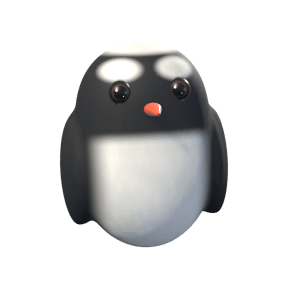
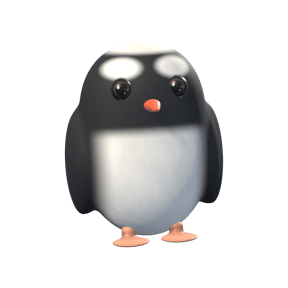
Figur & Hintergrund als eigene Seite; Abstaende; Wort ueber dem Kreis; Vogelfuesse
- Fragebogen: Bedeutung erscheint ueber dem getippten Kreis.
- Abstaende Titel -> Kasten gemessen (tools/abstaende.mjs) und behoben,
  darunter 'Freigeschaltet' und 'Ergebnis wiederherstellen'.
- Profil: Zeile 'Figur & Hintergrund' mit Vorschau, Unterseite view-look
  mit grosser Vorschau, Figuren und Hintergruenden (Entscheidung des
  Inhabers).
- Eule, Pinguin, Papagei, Rotkehlchen mit Beinen und Fuessen.

pruef-alles: 9/9 (Vogelbilder waehrend des Laufs neu uebernommen).

Changed region(s): [[0.1875, 0.1875, 0.8125, 0.875], [0.25, 0.1562, 0.5938, 0.4062], [0.5, 0.3438, 0.5625, 0.4062]]

diff --git a/tools/figuren_rendern/Tiere.swift b/tools/figuren_rendern/Tiere.swift
@@ -858,6 +858,7 @@ func eule() -> (SCNNode, Float, V) {
     nase(w, [Form(art: .rundkegel(V(0, -0.20, 0.10), 0.09, 0.02), mitte: V(0, 0.28, 0.82))], farbe: hex("#3B3330"), lack: 0.3, rauheit: 0.45)
     // Waldkauz: dunkle, fast schwarze Augen — gelbe haben Uhu und Steinkauz.
     augenEinsetzen(w, kopf, x: 0.30, y: 0.42, r: 0.20, tiefe: 0.35, iris: NSColor(calibratedRed: 0.20, green: 0.11, blue: 0.06, alpha: 1), pupille: 0.62, aussen: 0.1, ausdruck: Ausdruck(oben: 0.06, unten: 0.12, schraeg: 0.08, funke: 1.5, wange: 0.30, zwinkern: true))
+    vogelFuesse(w, unten: -1.08, abstand: 0.28, vorn: 0.30, farbe: hex("#B08A60"), dicke: 0.10, bein: 0.10, zehe: 0.20, kralle: hex("#2E2622"))
     w.eulerAngles = SCNVector3(0.02, -0.12, -0.16)
     return (w, 8.2, V(0, 0.05, 0))
 }
@@ -1120,6 +1121,31 @@ func seeotter() -> (SCNNode, Float, V) {
 }
 
 // Gemeinsamer Vogelrumpf: Kopf, der in einen runden Leib uebergeht, Fluegel an den Seiten.
+// Vogelfuesse (Runde 163, Auftrag des Inhabers): kurzes Bein unter dem Bauch, drei Zehen nach vorn —
+// weiche, abgeflachte Flaechen statt duenner Striche (Lehre: Striche mit runden Enden wirken auf
+// Avatargroesse fremd). `breit` = Schwimmhaut (Pinguin), `kralle` = dunkle Spitzen (Eule).
+func vogelFuesse(_ w: SCNNode, unten: Float, abstand: Float, vorn: Float, farbe: V, dicke: Float = 0.08,
+                 bein: Float = 0.16, zehe: Float = 0.20, breit: Bool = false, kralle: V? = nil) {
+    for s: Float in [-1, 1] {
+        let x = abstand * s, fuss = V(x, unten - bein, vorn + 0.04)
+        var formen: [Form] = [Form(art: .rundkegel(V(0, -bein, 0.04), dicke, dicke * 0.9), mitte: V(x, unten, vorn), weich: 0.05)]
+        if breit {
+            formen.append(Form(art: .ellipsoid(V(zehe * 0.75, 0.035, zehe * 0.70)), mitte: fuss + V(0, -0.01, zehe * 0.45), weich: 0.05))
+        } else {
+            for (dx, lang) in [(Float(-0.075), Float(0.85)), (0, 1), (0.075, 0.85)] {
+                formen.append(Form(art: .ellipsoid(V(dicke * 0.55, dicke * 0.38, zehe * 0.5 * lang)),
+                                   mitte: fuss + V(dx, -0.01, zehe * 0.45 * lang), drehung: simd_quatf(angle: dx * 2.2, axis: V(0, 1, 0)), weich: 0.04))
+            }
+        }
+        nase(w, formen, farbe: farbe, lack: 0.2, rauheit: 0.55)
+        if let k = kralle {
+            for dx: Float in [-0.075, 0, 0.075] {
+                nase(w, [Form(art: .ellipsoid(V(0.022, 0.018, 0.035)), mitte: fuss + V(dx * 1.3, -0.02, zehe * 0.92))], farbe: k, lack: 0.5, rauheit: 0.3)
+            }
+        }
+    }
+}
+
 func vogelFormen(kopf: V = V(0.72, 0.64, 0.68), leib: V = V(0.88, 1.05, 0.80), fluegel: Bool = true) -> [Form] {
     var f: [Form] = [
         Form(art: .ellipsoid(leib), mitte: V(0, -0.30, 0)),
@@ -1155,6 +1181,7 @@ func pinguin() -> (SCNNode, Float, V) {
     let w = SCNNode(); w.addChildNode(kopfKnoten(k, grenze: 1.9))
     nase(w, [Form(art: .rundkegel(V(0, -0.10, 0.42), 0.14, 0.035), mitte: V(0, 0.30, 0.62), stauchung: V(1, 0.7, 1))], farbe: orange, lack: 0.4, rauheit: 0.4)
     augenEinsetzen(w, k, x: 0.33, y: 0.48, r: 0.15, tiefe: 0.38, iris: NSColor(calibratedRed: 0.22, green: 0.12, blue: 0.06, alpha: 1), pupille: 0.62, aussen: 0.15, ausdruck: Ausdruck(oben: 0.05, unten: 0.08, funke: 1.6))
+    vogelFuesse(w, unten: -1.28, abstand: 0.30, vorn: 0.28, farbe: hex("#E89A7A"), dicke: 0.09, bein: 0.08, zehe: 0.30, breit: true)
     w.eulerAngles = SCNVector3(0.02, 0.16, 0.06)
     return (w, 8.2, V(0, 0.05, 0))
 }
@@ -1179,6 +1206,7 @@ func papagei() -> (SCNNode, Float, V) {
              Form(art: .ellipsoid(V(0.16, 0.12, 0.16)), mitte: V(0, 0.20, 0.66), weich: 0.08)], farbe: hex("#EDE3D2"), lack: 0.5, rauheit: 0.35)
     nase(w, [Form(art: .ellipsoid(V(0.13, 0.09, 0.13)), mitte: V(0, -0.02, 0.58), weich: 0.06)], farbe: hex("#2A2422"), lack: 0.4, rauheit: 0.4)
     augenEinsetzen(w, k, x: 0.32, y: 0.48, r: 0.13, tiefe: 0.36, iris: NSColor(calibratedRed: 0.85, green: 0.78, blue: 0.45, alpha: 1), pupille: 0.42, aussen: 0.15, ausdruck: Ausdruck(oben: 0.06, unten: 0.06, funke: 1.5))
+    vogelFuesse(w, unten: -1.18, abstand: 0.26, vorn: 0.30, farbe: hex("#77706C"), dicke: 0.08, bein: 0.14, zehe: 0.20, kralle: hex("#3A3432"))
     w.eulerAngles = SCNVector3(0.0, -0.18, -0.06)
     return (w, 8.2, V(0, 0.05, 0))
 }
@@ -1226,8 +1254,102 @@ func rotkehlchen() -> (SCNNode, Float, V) {
     let w = SCNNode(); w.addChildNode(kopfKnoten(k, grenze: 1.9))
     nase(w, [Form(art: .rundkegel(V(0, -0.04, 0.34), 0.10, 0.02), mitte: V(0, 0.32, 0.68))], farbe: hex("#2A2420"), lack: 0.4, rauheit: 0.4)
     augenEinsetzen(w, k, x: 0.34, y: 0.50, r: 0.19, tiefe: 0.36, iris: NSColor(calibratedRed: 0.10, green: 0.07, blue: 0.05, alpha: 1), pupille: 0.75, aussen: 0.15, ausdruck: Ausdruck(oben: 0.04, unten: 0.06, funke: 1.8))
+    vogelFuesse(w, unten: -1.15, abstand: 0.24, vorn: 0.30, farbe: hex("#6B4F3A"), dicke: 0.06, bein: 0.22, zehe: 0.20)
     w.eulerAngles = SCNVector3(0.0, -0.20, 0.12)
     return (w, 7.0, V(0, 0.15, 0))
+}
+
+// ---------- Runde 163: Mops und Siamkatze (Auftrag des Inhabers) ----------
+
+func mops() -> (SCNNode, Float, V) {
+    // Mops: runder, breiter Kopf, kaum Schnauze, schwarze Maske, Stirnfalten, kleine dunkle Knopfohren,
+    // grosse runde dunkle Augen; falbfarbenes, kurzes Fell.
+    let falb = hex("#D8B888"), maske = hex("#2A2320"), hell = hex("#E8D2AC")
+    var formen: [Form] = [
+        Form(art: .ellipsoid(V(0.96, 0.86, 0.86)), mitte: V(0, 0.10, -0.02)),
+        Form(art: .ellipsoid(V(0.48, 0.38, 0.42)), mitte: V(-0.46, -0.24, 0.28), weich: 0.30),
+        Form(art: .ellipsoid(V(0.48, 0.38, 0.42)), mitte: V(0.46, -0.24, 0.28), weich: 0.30),
+        // kurze, breite Schnauze
+        Form(art: .ellipsoid(V(0.42, 0.28, 0.26)), mitte: V(0, -0.24, 0.80), weich: 0.22),
+        // Stirnfalten: weiche Wuelste ueber der Nase
+        Form(art: .ellipsoid(V(0.20, 0.04, 0.08)), mitte: V(0, 0.36, 0.80), weich: 0.08),
+        Form(art: .ellipsoid(V(0.16, 0.035, 0.07)), mitte: V(0, 0.48, 0.74), weich: 0.08),
+    ]
+    for sx: Float in [-1, 1] {
+        // Knopfohr: nach vorn umgeklappt, klein und dunkel.
+        formen.append(Form(art: .ellipsoid(V(0.24, 0.20, 0.07)), mitte: V(0.74 * sx, 0.58, 0.12),
+                           drehung: simd_quatf(angle: -0.5 * sx, axis: V(0, 0, 1)) * simd_quatf(angle: 0.4 * sx, axis: V(0, 1, 0)), weich: 0.08))
+    }
+    formen += lider(0.34, 0.12, 0.70, 0.16)
+    let kopf = Koerper(formen: formen, farbe: { p, n in
+        var c = farbeMitRauschen(falb, p, 0.07)
+        c = mische(c, hell, glatt(0.0, 0.5, p.y) * 0.25)
+        // schwarze Maske: Schnauze und um die Augen, nach oben weich auslaufend
+        let schnauze = region(p, V(0, -0.20, 0.98), V(0.56, 0.40, 0.44), 0.35)
+        let augen = max(region(p, V(-0.34, 0.12, 0.74), V(0.22, 0.20, 0.30), 0.4), region(p, V(0.34, 0.12, 0.74), V(0.22, 0.20, 0.30), 0.4))
+        c = mische(c, maske, max(schnauze, augen * 0.7))
+        // Falten dunkler in den Tiefen
+        c = mische(c, mische(falb, maske, 0.5), glatt(0.30, 0.52, p.y) * glatt(0.24, 0.0, abs(p.x)) * glatt(0.75, 0.9, n.z) * 0.35)
+        c = mische(c, maske, glatt(0.62, 0.74, abs(p.x)) * glatt(0.40, 0.55, p.y) * 0.9)     // Ohren
+        return c
+    }, rauheit: 0.74, fell: 0.06)
+    var (braue, braueM) = mitBrauen(kopf, x: 0.30, y: 0.32, laenge: 0.12, dicke: 0.05, winkel: 0.25, farbe: mische(falb, maske, 0.35), staerke: 0.7)
+    braue.haar = haarKarte(kopf, FellKarte(kopf: 0.035, rumpf: 0.05, nase: V(0, -0.10, 1.04), schnauze: 0.3,
+        augen: augenStellen(kopf, x: 0.34, y: 0.12), augenR: 0.18,
+        zonen: beide(V(0.46, -0.24, 0.28), V(0.40, 0.32, 0.36), 0.8)), braue: braueM)
+    braue.fellArt = Fell(dichte: 90, ursprung: V(0, -0.10, 1.10), straehnen: 0.2)
+    let maul = mitMaul(braue, Maul(kurven: [Kurve(punkte: [V(0, -0.20, 1.04), V(0, -0.30, 1.02), V(0, -0.36, 0.98)], spitzHinten: false)]
+        + paar(Kurve(punkte: [V(0, -0.36, 0.98), V(0.10, -0.42, 0.95), V(0.22, -0.40, 0.86)], spitzVorn: false)),
+        r: 0.030, farbe: hex("#140F0E"), staerke: 0.85))
+    let bau = Bau(brust: 1.25, tiefe: 1.05, hals: 0.55, bein: 0.18, beinAbstand: 0.30, ruecken: 0.65)
+    let koerper = brustbild(maul, vierbeiner(bau), farbe: { p, _ in farbeMitRauschen(falb, p, 0.07) })
+    let w = SCNNode(); w.addChildNode(brustKnoten(koerper))
+    tierNase(w, mitte: V(0, -0.10, 1.04), r: V(0.17, 0.11, 0.10), farbe: hex("#141010"))
+    augenEinsetzen(w, kopf, x: 0.34, y: 0.12, r: 0.20, iris: NSColor(calibratedRed: 0.20, green: 0.12, blue: 0.07, alpha: 1), pupille: 0.62, ausdruck: Ausdruck(oben: 0.06, unten: 0.10, schraeg: 0.12, funke: 1.7, wange: 0.2))
+    w.eulerAngles = SCNVector3(0.06, -0.24, -0.08)
+    return (w, 7.4, V(0, 0.15, 0))
+}
+
+func siamkatze() -> (SCNNode, Float, V) {
+    // Siamkatze: schlanker Keilkopf, grosse Ohren, cremefarbenes Fell mit dunkler Maske um Nase und
+    // Schnauze, dunkle Ohren; mandelfoermige blaue Augen.
+    let creme = hex("#EEE2CC"), punkt = hex("#4E3729"), rosa = hex("#C9938A")
+    var formen: [Form] = [
+        Form(art: .ellipsoid(V(0.86, 0.80, 0.84)), mitte: V(0, 0.10, 0)),
+        Form(art: .ellipsoid(V(0.36, 0.28, 0.32)), mitte: V(-0.50, -0.22, 0.28), weich: 0.28),
+        Form(art: .ellipsoid(V(0.36, 0.28, 0.32)), mitte: V(0.50, -0.22, 0.28), weich: 0.28),
+        Form(art: .ellipsoid(V(0.20, 0.15, 0.18)), mitte: V(-0.13, -0.26, 0.76), weich: 0.12),
+        Form(art: .ellipsoid(V(0.20, 0.15, 0.18)), mitte: V(0.13, -0.26, 0.76), weich: 0.12),
+        Form(art: .ellipsoid(V(0.15, 0.11, 0.13)), mitte: V(0, -0.40, 0.66), weich: 0.12),
+    ]
+    formen += ohrPaar(0.50, 0.58, -0.05, laenge: V(0.28, 0.72, -0.02), r1: 0.36, r2: 0.05, flach: 0.42)
+    formen += lider(0.31, 0.12, 0.64, 0.17, weich: 0.12)
+    let kopf = Koerper(formen: formen, farbe: { p, n in
+        var c = farbeMitRauschen(creme, p, 0.05)
+        // die Maske: um Nase und Schnauze am dunkelsten, zu den Augen hin weich
+        let maske = region(p, V(0, -0.16, 0.86), V(0.44, 0.44, 0.40), 0.5)
+        c = mische(c, farbeMitRauschen(punkt, p, 0.06), maske * 0.95)
+        let ohr = glatt(0.62, 0.80, p.y) * glatt(0.25, 0.40, abs(p.x))
+        c = mische(c, punkt, ohr * 0.9)
+        let innen = glatt(0.66, 0.80, p.y) * glatt(0.25, 0.36, abs(p.x)) * glatt(0.1, 0.5, n.z) * glatt(1.25, 1.0, p.y)
+        c = mische(c, rosa, innen * 0.5)
+        return c
+    }, rauheit: 0.70, fell: 0.05)
+    var (braue, braueM) = mitBrauen(kopf, x: 0.30, y: 0.34, laenge: 0.12, dicke: 0.04, winkel: 0.18, farbe: mische(creme, punkt, 0.25), staerke: 0.6)
+    braue.haar = haarKarte(kopf, FellKarte(kopf: 0.03, rumpf: 0.05, nase: V(0, -0.06, 0.90), schnauze: 0.4,
+        augen: augenStellen(kopf, x: 0.31, y: 0.12), augenR: 0.18,
+        zonen: beide(V(0.52, -0.22, 0.25), V(0.34, 0.28, 0.36), 1.0)), braue: braueM)
+    braue.fellArt = Fell(dichte: 95, ursprung: V(0, -0.06, 0.90), spitze: 1.04, straehnen: 0.2)
+    let maul = mitMaul(braue, Maul(kurven: [Kurve(punkte: [V(0, -0.17, 0.96), V(0, -0.29, 0.95), V(0, -0.36, 0.92)], spitzHinten: false)]
+        + paar(Kurve(punkte: [V(0, -0.36, 0.92), V(0.06, -0.41, 0.90), V(0.12, -0.41, 0.86), V(0.17, -0.37, 0.80)], spitzVorn: false)),
+        r: 0.028, farbe: hex("#2A1C16"), staerke: 0.8))
+    let bau = Bau(bein: 0.16, ruecken: 0.58)
+    let koerper = brustbild(maul, vierbeiner(bau), farbe: { p, _ in farbeMitRauschen(creme, p, 0.05) })
+    let w = SCNNode(); w.addChildNode(brustKnoten(koerper))
+    tierNase(w, mitte: V(0, -0.08, 0.91), r: V(0.09, 0.06, 0.06), farbe: hex("#3A2A24"), dreieck: true)
+    augenEinsetzen(w, kopf, x: 0.31, y: 0.12, r: 0.20, iris: NSColor(calibratedRed: 0.36, green: 0.62, blue: 0.92, alpha: 1), pupille: 0.50, schlitz: true, schlitzBreite: 0.55, ausdruck: Ausdruck(oben: 0.14, unten: 0.08, schraeg: 0.22, funke: 1.5, wange: 0.3))
+    w.eulerAngles = SCNVector3(0.05, -0.30, -0.10)
+    return (w, 7.3, V(0, 0.18, 0))
 }
 
 let TIERE: [Tier] = [
@@ -1237,4 +1359,5 @@ let TIERE: [Tier] = [
     Tier(name: "wal", bauen: wal), Tier(name: "goldfisch", bauen: goldfisch), Tier(name: "schildkroete", bauen: schildkroete),
     Tier(name: "delfin", bauen: delfin), Tier(name: "seeotter", bauen: seeotter), Tier(name: "pinguin", bauen: pinguin),
     Tier(name: "papagei", bauen: papagei), Tier(name: "flamingo", bauen: flamingo), Tier(name: "rotkehlchen", bauen: rotkehlchen),
+    Tier(name: "mops", bauen: mops), Tier(name: "siamkatze", bauen: siamkatze),
 ]

diff --git a/src/index.body.html b/src/index.body.html
@@ -393,14 +393,8 @@
         <input type="file" accept="image/*" id="avatarFileInput" style="display:none;">
       </div>
       <button type="button" class="profile-remove-photo" id="btnAvatarRemove" style="display:none;" data-i18n="bild_entfernen">Bild entfernen</button>
-      <!-- Drei ruhige Farbtoene fuer den Initialen-Kreis, nur ohne eigenes Foto. -->
-      <div class="avatar-color-row" id="avatarColorRow" role="group" aria-label="Farbe für den Initialen-Kreis" data-i18n-aria="aria_farbe_für_den_initialen_krei">
-        <button type="button" class="avatar-color-swatch avatar-color-accent" id="avatarColorAccent" data-color="accent" aria-label="Teal" data-i18n-aria="aria_teal" aria-pressed="false"></button>
-        <button type="button" class="avatar-color-swatch avatar-color-ink" id="avatarColorInk" data-color="ink" aria-label="Ink" data-i18n-aria="aria_ink" aria-pressed="false"></button>
-        <button type="button" class="avatar-color-swatch avatar-color-quiet" id="avatarColorQuiet" data-color="quiet" aria-label="Ruhig" data-i18n-aria="aria_ruhig" aria-pressed="false"></button>
-      </div>
-      <!-- Die zwoelf Tiere fuer den Kreis; das erste Feld fuehrt zurueck zum Buchstaben. -->
-      <div class="figur-gruppen" id="figurRaster" role="group" aria-label="Figur wählen" data-i18n-aria="aria_figur_waehlen"></div>
+      <!-- Figur und Hintergrund auf eigener Seite (Entscheidung des Inhabers); hier nur der Weg mit Vorschau. -->
+      <button type="button" class="hilfe-knopf aussehen-zeile" id="btnAussehenOeffnen"><span class="aussehen-mini" id="aussehenMini" aria-hidden="true"></span><span class="aussehen-zeile-text" data-i18n="figur_hintergrund">Figur &amp; Hintergrund</span><svg class="chev" width="16" height="16" viewBox="0 0 24 24" fill="none" stroke="currentColor" stroke-width="2" stroke-linecap="round" stroke-linejoin="round" aria-hidden="true"><path d="m9 6 6 6-6 6"></path></svg></button>
       <label class="profile-name-label" for="profileName" data-i18n="name">Name</label>
       <input type="text" id="profileName" class="name-input" placeholder="Dein Name" data-i18n-placeholder="ph_dein_name" maxlength="30" autocomplete="off">
       <label class="profile-name-label" for="profileBenutzerId" data-i18n="benutzer_id">Benutzer-ID</label>
@@ -408,9 +402,6 @@
       <p class="settings-hint benutzer-id-hinweis" data-i18n="benutzer_id_hinweis">Steht vorne in deinem Freundescode und ist der Name, unter dem dich Freunde sehen. 3–20 Zeichen: a–z, 0–9, Punkt, Unterstrich.</p>
     </div>
 
-    <h2 class="section-title" data-i18n="hintergrund">Hintergrund</h2>
-    <p class="section-lead" data-i18n="der_hintergrund_liegt_hinter">Liegt hinter deinem Namen in der Seitenleiste. Jede Vorlage bringt ihre eigenen Schriftfarben mit, damit der Name auf ihr lesbar bleibt.</p>
-    <div class="hg-gruppen" id="hgRaster" role="group" aria-label="Hintergrund wählen" data-i18n-aria="aria_hintergrund_waehlen"></div>
 
     <h2 class="section-title" data-i18n="dein_ergebnis">Dein Ergebnis</h2>
     <div id="profileResultBlock"></div>
@@ -437,6 +428,29 @@
   </section>
 
   <!-- SETTINGS -->
+  <!-- FIGUR & HINTERGRUND: Unterseite des Profils. -->
+  <section class="view" id="view-look" tabindex="-1">
+    <div class="quiz-head nur-zurueck">
+      <button class="btn btn-ghost btn-sm" id="btnBackFromLook" data-i18n="zurueck_profil">← Profil</button>
+    </div>
+    <div class="archetypes-head">
+      <h1 data-i18n="figur_hintergrund">Figur &amp; Hintergrund</h1>
+    </div>
+    <div class="aussehen-buehne" id="aussehenBuehne" aria-hidden="true"></div>
+    <h2 class="section-title" data-i18n="figur_titel">Figur</h2>
+      <!-- Die zwoelf Tiere fuer den Kreis; das erste Feld fuehrt zurueck zum Buchstaben. -->
+      <div class="figur-gruppen" id="figurRaster" role="group" aria-label="Figur wählen" data-i18n-aria="aria_figur_waehlen"></div>
+      <!-- Drei ruhige Farbtoene fuer den Initialen-Kreis, nur ohne eigenes Foto. -->
+      <div class="avatar-color-row" id="avatarColorRow" role="group" aria-label="Farbe für den Initialen-Kreis" data-i18n-aria="aria_farbe_für_den_initialen_krei">
+        <button type="button" class="avatar-color-swatch avatar-color-accent" id="avatarColorAccent" data-color="accent" aria-label="Teal" data-i18n-aria="aria_teal" aria-pressed="false"></button>
+        <button type="button" class="avatar-color-swatch avatar-color-ink" id="avatarColorInk" data-color="ink" aria-label="Ink" data-i18n-aria="aria_ink" aria-pressed="false"></button>
+        <button type="button" class="avatar-color-swatch avatar-color-quiet" id="avatarColorQuiet" data-color="quiet" aria-label="Ruhig" data-i18n-aria="aria_ruhig" aria-pressed="false"></button>
+      </div>
+    <h2 class="section-title" data-i18n="hintergrund">Hintergrund</h2>
+    <p class="section-lead" data-i18n="der_hintergrund_liegt_hinter">Liegt hinter deinem Namen in der Seitenleiste. Jede Vorlage bringt ihre eigenen Schriftfarben mit, damit der Name auf ihr lesbar bleibt.</p>
+    <div class="hg-gruppen" id="hgRaster" role="group" aria-label="Hintergrund wählen" data-i18n-aria="aria_hintergrund_waehlen"></div>
+  </section>
+
   <section class="view" id="view-settings" tabindex="-1">
     <div class="quiz-head nur-zurueck">
       <button class="btn btn-ghost btn-sm" id="btnBackFromSettings" data-i18n="start_7">← Start</button>

diff --git a/src/styles/12-ios.css b/src/styles/12-ios.css
@@ -198,13 +198,13 @@
    zu border-width:2px !important aus 10-druckzustaende.css. */
 
   /* Abschnittstitel wie ueberall in iOS. */
-  #view-profile .section-title{
+  #view-profile .section-title, #view-look .section-title{
     margin-top:30px; padding:0 16px 7px; display:block;
     font-family:var(--sans); font-size:calc(13px * var(--dt, 1)); font-weight:400; line-height:1.3;
     text-transform:uppercase; letter-spacing:.02em; color:var(--muted);
   }
   #view-profile .section-title .n{ border:none; padding:0; margin-left:6px; font-size:calc(13px * var(--dt, 1)); }
-  #view-profile .section-lead{ margin:0 0 8px; padding:0 16px; font-size:calc(13px * var(--dt, 1)); line-height:1.4; max-width:none; }
+  #view-profile .section-lead, #view-look .section-lead{ margin:0 0 8px; padding:0 16px; font-size:calc(13px * var(--dt, 1)); line-height:1.4; max-width:none; }
 
   /* Name: ein Textfeld in einer Zeile, wie "Vorname" in der Kontaktkarte — keine Unterstrich-Linie,
      sondern eine Flaeche mit dem Text linksbuendig. */
@@ -220,8 +220,8 @@
   #view-profile .name-input:focus{ border:none; }
 
   /* Bildwahl: Farbtupfer und Figuren auf einer gemeinsamen Flaeche. */
-  #view-profile .figur-raster,
-  #view-profile .hg-raster{
+  #view-profile .figur-raster, #view-look .figur-raster,
+  #view-profile .hg-raster, #view-look .hg-raster{
     max-width:none; width:100%; box-sizing:border-box; padding:14px;
     background:var(--surface); border-radius:var(--radius-m);
   }
@@ -894,3 +894,24 @@
   .vs-label{ font-size:calc(12px * var(--dt, 1)); color:var(--accent-strong); font-weight:600; margin:8px 0 2px; }
   .vs-mehr p{ margin:0 0 6px; line-height:1.5; }
   .vs-frage{ font-style:italic; }
+
+  /* Abstaende Titel -> Folgendes (gemessen mit tools/abstaende.mjs; gemeldet: "Freigeschaltet", "Ergebnis
+     wiederherstellen"). Vor Kasten/Karte mindestens 10 px, Beschriftung vor Text 4 px. */
+  .section-title-sub{ margin-bottom:12px; }
+  #view-settings .settings-restore-label{ margin-bottom:10px; }
+  #view-plus .settings-group > h2{ margin-bottom:12px; }
+  .vs-label{ margin-bottom:4px; }
+  .arch-kombis .hg-gruppe-titel{ margin-bottom:10px; }
+  /* Figur & Hintergrund: Zeile im Profil, Buehne auf der Unterseite (wie die Profilzeile der Seitenleiste). */
+  .aussehen-zeile{ margin-top:18px; gap:12px; justify-content:flex-start; }
+  .aussehen-zeile-text{ flex:1; }
+  .aussehen-mini{ width:40px; height:40px; border-radius:10px; flex-shrink:0; display:flex; align-items:center; justify-content:center;
+    box-shadow:0 0 0 1px var(--line) inset; }
+  .aussehen-mini:not([data-hg]){ background:var(--surface-2); }
+  .aussehen-mini .avatar{ width:30px; height:30px; font-size:calc(11px * var(--dt, 1)); }
+  .aussehen-buehne{ display:flex; align-items:center; gap:16px; padding:22px 20px; border-radius:var(--radius-m); margin:6px 0 4px;
+    color:var(--hg-ink, var(--ink)); }
+  .aussehen-buehne:not([data-hg]){ background:var(--surface); }
+  .aussehen-avatar{ width:84px; height:84px; flex-shrink:0; font-size:calc(28px * var(--dt, 1)); }
+  .aussehen-name{ font-family:var(--marke); font-size:calc(22px * min(var(--dt, 1), 1.3)); font-weight:600; color:var(--hg-ink, var(--ink)); }
+  #view-look .avatar-color-row{ margin-top:14px; }

diff --git a/src/js/15-profile.js b/src/js/15-profile.js
@@ -84,10 +84,26 @@
         if (!hgFrei(id)){ openPlusModal(); return; }
         var pr = loadProfile();
         pr.hintergrund = id || null;
-        if (saveProfile(pr)){ renderHintergrundRaster(pr); refreshDrawerState(); }
+        if (saveProfile(pr)){ renderHintergrundRaster(pr); refreshDrawerState(); aussehenVorschau(); }
         else toast(tx('js_konnte_nicht_gespeichert_w'));
       });
     });
+  }
+  // Vorschau von Figur und Hintergrund: gross auf der Unterseite, klein in der Profilzeile.
+  function aussehenVorschau(){
+    var pr = loadProfile(), hg = (pr.hintergrund && HINTERGRUENDE.indexOf(pr.hintergrund) >= 0) ? pr.hintergrund : '';
+    var buehne = $('aussehenBuehne'), mini = $('aussehenMini');
+    [buehne, mini].forEach(function(el){
+      if (!el || !el.classList) return;
+      HINTERGRUENDE.forEach(function(id){ el.classList.remove('hg-'+id); });
+      if (hg){ el.classList.add('hg-'+hg); el.setAttribute('data-hg', hg); } else el.removeAttribute('data-hg');
+    });
+    if (buehne && buehne.querySelector){
+      buehne.innerHTML = '<span class="avatar aussehen-avatar"></span><span class="aussehen-name"></span>';
+      renderAvatarInto(buehne.querySelector('.aussehen-avatar'), pr);
+      buehne.querySelector('.aussehen-name').textContent = pr.name || tx('js_profil');
+    }
+    if (mini && mini.querySelector){ mini.innerHTML = '<span class="avatar"></span>'; renderAvatarInto(mini.firstChild, pr); }
   }
   function renderAvatar(profile){
     renderAvatarInto($('profileAvatar'), profile);
@@ -102,6 +118,7 @@
     });
     renderFigurRaster(profile);
     renderHintergrundRaster(profile);
+    aussehenVorschau();
   }
   function renderProfile(){
     var profile = loadProfile();

diff --git a/src/js/11-rendering.js b/src/js/11-rendering.js
@@ -30,7 +30,16 @@
   function skalaWahlZeigen(v){
     var el = $('skalaWahl');
     if (!el || !el.classList) return;
-    el.textContent = skalaBedeutung(v);
+    // Ueber dem getippten Kreis, am Rand der Skala abgefangen.
+    el.innerHTML = '<span class="skala-wahl-text"></span>';
+    var t = el.firstChild;
+    if (!t) return;
+    t.textContent = skalaBedeutung(v);
+    try{
+      var k = $('scaleRow').children[v - 1], r = el.getBoundingClientRect(), kr = k.getBoundingClientRect();
+      var halb = t.getBoundingClientRect().width / 2, mitte = kr.left + kr.width / 2 - r.left;
+      t.style.left = Math.max(halb, Math.min(r.width - halb, mitte)) + 'px';
+    }catch(e){}
     el.classList.add('zeigen');
     clearTimeout(skalaWahlUhr);
     skalaWahlUhr = setTimeout(function(){ el.classList.remove('zeigen'); }, 1100);

diff --git a/src/js/21-beta-rueckmeldung.js b/src/js/21-beta-rueckmeldung.js
@@ -238,6 +238,8 @@
   // Keine Zifferntasten-Bedienung im Fragebogen (auf dem iPhone unerreichbar). Bewusst geblieben:
   // Eingabetaste in Textfeldern und Escape/Tab in Fenstern (Tastatur- und Schaltersteuerung).
   $('btnNavZurueck').addEventListener('click', navZurueck);
+  $('btnAussehenOeffnen').addEventListener('click', function(){ var pr = loadProfile(); renderAvatar(pr); renderHintergrundRaster(pr); showView('look'); });
+  $('btnBackFromLook').addEventListener('click', function(){ renderProfile(); showView('profile'); });
   // Apples Standard-EULA (Richtlinie 3.1.2) oeffnet im Browser; Datenschutz ist die Rechtsseite der App.
   var EULA_URL = 'https://www.apple.com/legal/internet-services/itunes/dev/stdeula/';
   document.addEventListener('click', function(e){

diff --git a/src/i18n/ja.js b/src/i18n/ja.js
@@ -1118,6 +1118,8 @@
       'vs_kombis': '組み合わせ',
       'vs_daten': 'あなたのデータから',
       'vs_lead': 'あなたと同じタイプの人について研究でわかっていること。4つの生活領域で、5つの値すべてを使って。判定ではなく、傾向です。',
+      'figur_hintergrund': 'フィギュアと背景',
+      'figur_titel': 'フィギュア',
       'konto_fehler': 'うまくいきませんでした。もう一度お試しください。',
       'freunde_ohne_namen': '名前なし',
       'freunde_erst_test': 'まずテストを受けると、友だちコードがもらえます。',

diff --git a/src/i18n/de.js b/src/i18n/de.js
@@ -815,6 +815,8 @@ CONTENT.de = {
       'vs_kombis': 'Kombinationen',
       'vs_daten': 'Aus deinen Daten',
       'vs_lead': 'Was die Forschung über Menschen mit deinem Profil weiß – in vier Lebensbereichen, mit allen fünf Werten. Zusammenhänge, keine Urteile.',
+      'figur_hintergrund': 'Figur & Hintergrund',
+      'figur_titel': 'Figur',
       'konto_fehler': 'Das hat nicht geklappt. Bitte versuch es noch einmal.',
       'freunde_ohne_namen': 'Ohne Namen',
       'freunde_erst_test': 'Mach zuerst den Test – dann bekommst du deinen Freundescode.',

diff --git a/src/i18n/fr.js b/src/i18n/fr.js
@@ -1114,6 +1114,8 @@
       'vs_kombis': 'Combinaisons',
       'vs_daten': 'D’après tes données',
       'vs_lead': 'Ce que la recherche sait des personnes ayant ton profil – dans quatre domaines de vie, avec les cinq valeurs. Des liens, pas des jugements.',
+      'figur_hintergrund': 'Figure et arrière-plan',
+      'figur_titel': 'Figure',
       'konto_fehler': 'Ça n’a pas marché. Réessaie.',
       'freunde_ohne_namen': 'Sans nom',
       'freunde_erst_test': 'Fais d’abord le test – tu obtiendras ensuite ton code ami.',

diff --git a/src/i18n/es.js b/src/i18n/es.js
@@ -1114,6 +1114,8 @@
       'vs_kombis': 'Combinaciones',
       'vs_daten': 'De tus datos',
       'vs_lead': 'Lo que la investigación sabe de las personas con tu perfil, en cuatro ámbitos de la vida y con los cinco valores. Relaciones, no juicios.',
+      'figur_hintergrund': 'Figura y fondo',
+      'figur_titel': 'Figura',
       'konto_fehler': 'No ha funcionado. Inténtalo de nuevo.',
       'freunde_ohne_namen': 'Sin nombre',
       'freunde_erst_test': 'Haz primero el test y obtendrás tu código de amigo.',

diff --git a/src/i18n/pt.js b/src/i18n/pt.js
@@ -1114,6 +1114,8 @@
       'vs_kombis': 'Combinações',
       'vs_daten': 'Dos teus dados',
       'vs_lead': 'O que a investigação sabe sobre pessoas com o teu perfil – em quatro áreas da vida, com os cinco valores. Relações, não juízos.',
+      'figur_hintergrund': 'Figura e fundo',
+      'figur_titel': 'Figura',
       'konto_fehler': 'Não funcionou. Tenta de novo.',
       'freunde_ohne_namen': 'Sem nome',
       'freunde_erst_test': 'Faz primeiro o teste – depois recebes o teu código de amigo.',

diff --git a/src/i18n/tr.js b/src/i18n/tr.js
@@ -1118,6 +1118,8 @@
       'vs_kombis': 'Bileşimler',
       'vs_daten': 'Verilerinden',
       'vs_lead': 'Araştırmanın senin profilindeki insanlar hakkında bildikleri – dört yaşam alanında, beş değerin hepsiyle. Yargı değil, ilişkiler.',
+      'figur_hintergrund': 'Figür ve arka plan',
+      'figur_titel': 'Figür',
       'konto_fehler': 'Olmadı. Lütfen tekrar dene.',
       'freunde_ohne_namen': 'İsimsiz',
       'freunde_erst_test': 'Önce testi yap – sonra arkadaş kodunu alırsın.',
